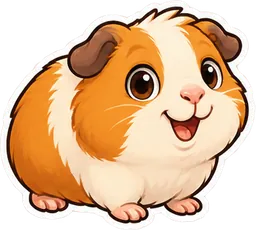
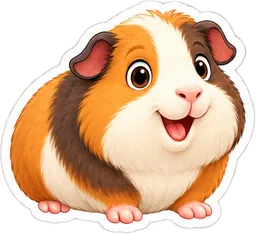
Ferme : planche 2 refaite dans le bon style (âne, chèvre, dinde, lama, cochon d'Inde, taupe, colombe, abeille)

diff --git a/src/assets.js b/src/assets.js
@@ -155,14 +155,14 @@ window.STICKERS = [
   { id: "duck", theme: "ferme", name: "Canard", src: "assets/stickers/ferme/duck.webp", w: 176, h: 256, scale: 0.5 },
   { id: "dog", theme: "ferme", name: "Chien", src: "assets/stickers/ferme/dog.webp", w: 189, h: 256, scale: 0.7 },
   { id: "cat", theme: "ferme", name: "Chat", src: "assets/stickers/ferme/cat.webp", w: 207, h: 256, scale: 0.55 },
-  { id: "donkey", theme: "ferme", name: "Âne", src: "assets/stickers/ferme/donkey.webp", w: 179, h: 256, scale: 1.1 },
-  { id: "goat", theme: "ferme", name: "Chèvre", src: "assets/stickers/ferme/goat.webp", w: 194, h: 256, scale: 0.8 },
-  { id: "turkey", theme: "ferme", name: "Dinde", src: "assets/stickers/ferme/turkey.webp", w: 254, h: 256, scale: 0.65 },
-  { id: "bee", theme: "ferme", name: "Abeille", src: "assets/stickers/ferme/bee.webp", w: 256, h: 245, scale: 0.3 },
-  { id: "mole", theme: "ferme", name: "Taupe", src: "assets/stickers/ferme/mole.webp", w: 256, h: 201, scale: 0.45 },
-  { id: "dove", theme: "ferme", name: "Colombe", src: "assets/stickers/ferme/dove.webp", w: 256, h: 227, scale: 0.4 },
-  { id: "llama", theme: "ferme", name: "Lama", src: "assets/stickers/ferme/llama.webp", w: 178, h: 256, scale: 1.1 },
-  { id: "guinea-pig", theme: "ferme", name: "Cochon d'Inde", src: "assets/stickers/ferme/guinea-pig.webp", w: 256, h: 230, scale: 0.4 },
+  { id: "donkey", theme: "ferme", name: "Âne", src: "assets/stickers/ferme/donkey.webp", w: 181, h: 256, scale: 1.1 },
+  { id: "goat", theme: "ferme", name: "Chèvre", src: "assets/stickers/ferme/goat.webp", w: 179, h: 256, scale: 0.8 },
+  { id: "turkey", theme: "ferme", name: "Dinde", src: "assets/stickers/ferme/turkey.webp", w: 225, h: 256, scale: 0.65 },
+  { id: "bee", theme: "ferme", name: "Abeille", src: "assets/stickers/ferme/bee.webp", w: 229, h: 256, scale: 0.3 },
+  { id: "mole", theme: "ferme", name: "Taupe", src: "assets/stickers/ferme/mole.webp", w: 256, h: 192, scale: 0.45 },
+  { id: "dove", theme: "ferme", name: "Colombe", src: "assets/stickers/ferme/dove.webp", w: 256, h: 245, scale: 0.4 },
+  { id: "llama", theme: "ferme", name: "Lama", src: "assets/stickers/ferme/llama.webp", w: 132, h: 256, scale: 1.1 },
+  { id: "guinea-pig", theme: "ferme", name: "Cochon d'Inde", src: "assets/stickers/ferme/guinea-pig.webp", w: 256, h: 234, scale: 0.4 },
   { id: "barn", theme: "ferme", name: "Grange", src: "assets/stickers/ferme/barn.webp", w: 256, h: 232, scale: 1.7 },
   { id: "tractor", theme: "ferme", name: "Tracteur", src: "assets/stickers/ferme/tractor.webp", w: 256, h: 204, scale: 1.2 },
   { id: "windmill", theme: "ferme", name: "Moulin", src: "assets/stickers/ferme/windmill.webp", w: 241, h: 256, scale: 1.7 },
